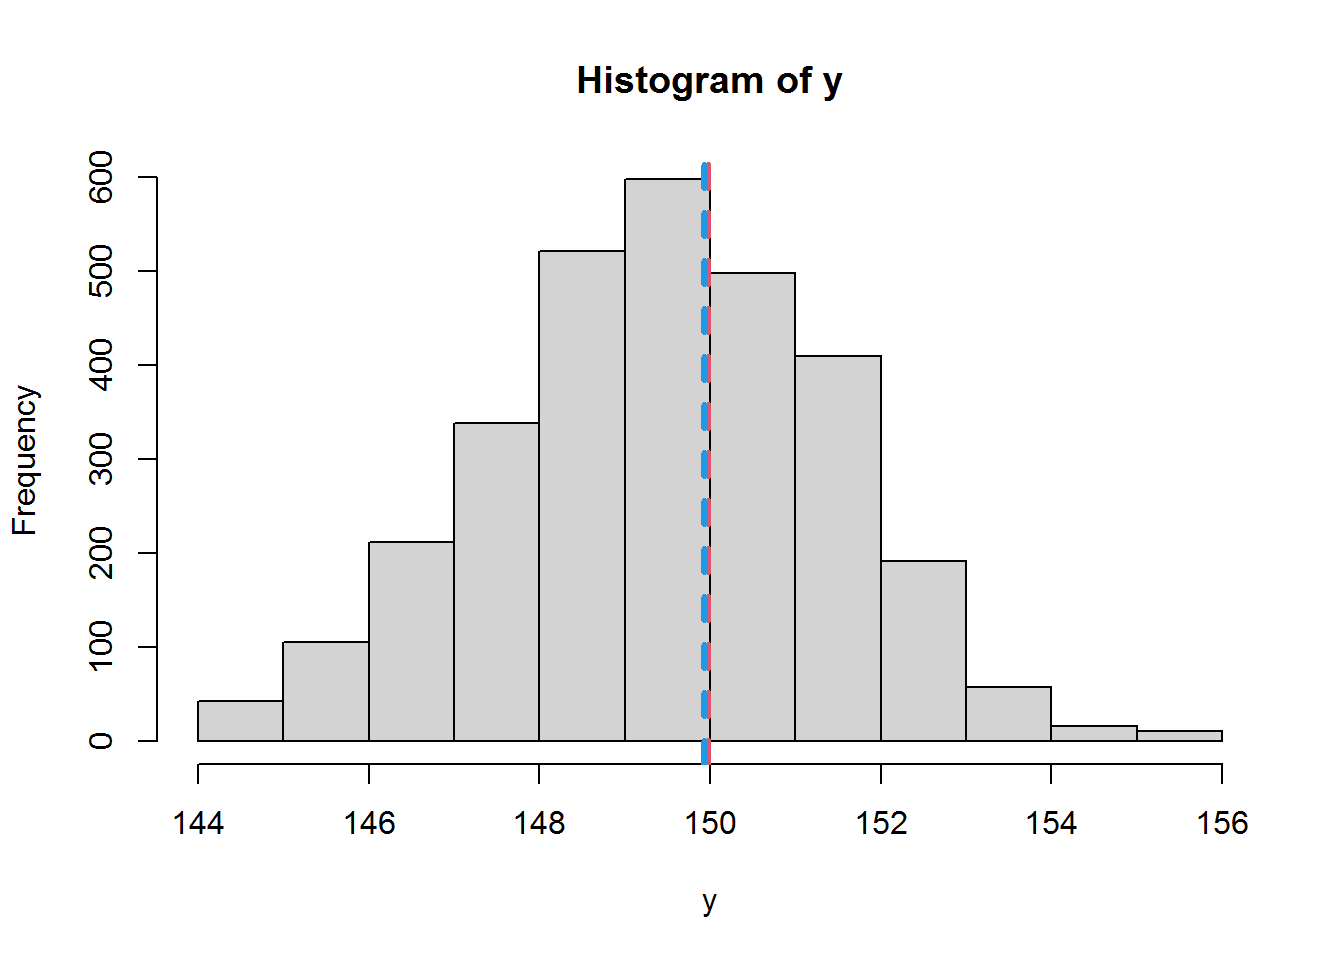
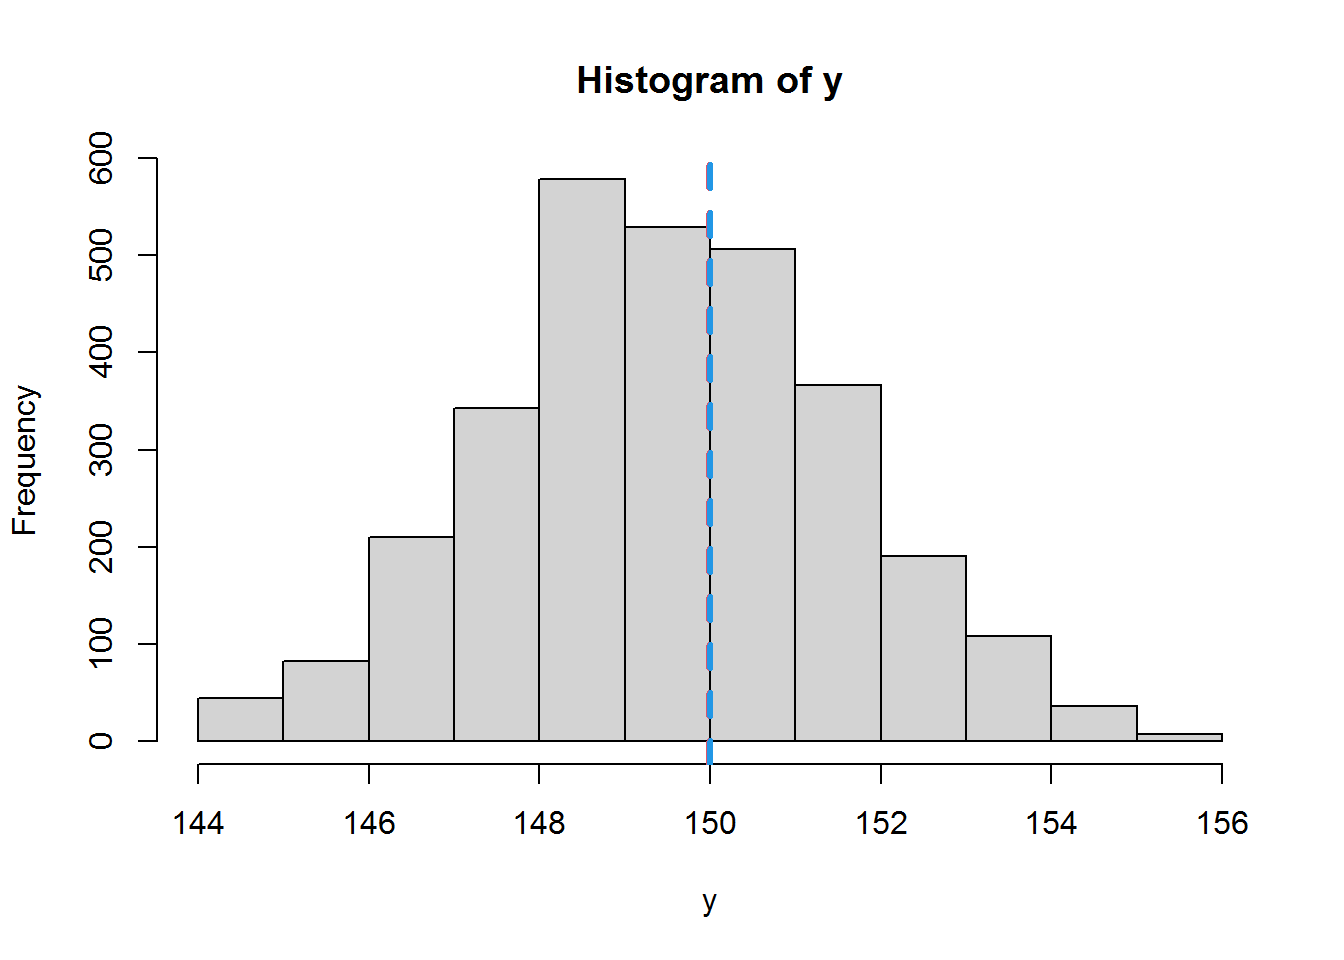
dessss

diff --git a/HISTOGRAMAS.html b/HISTOGRAMAS.html
@@ -260,7 +260,7 @@ $(document).ready(function () {
   </a>
   <ul class="dropdown-menu" role="menu">
     <li>
-      <a href="PROPUESTOS.html">PROPUESTOS</a>
+      <a href="PROPUESTO.html">PROPUESTOS</a>
     </li>
     <li>
       <a href="EXAMENES.html">EXAMENES</a>
@@ -326,8 +326,8 @@ $(document).ready(function () {
 
 
 <p><img src="HISTOGRAMAS_files/figure-html/unnamed-chunk-1-1.png" width="672" /></p>
-<pre><code>##  [1] 3.000000 3.500000 2.000000 3.250000 3.400000 3.166667 3.714286 4.750000
-##  [9] 3.222222 3.600000</code></pre>
+<pre><code>##  [1] 6.000000 5.500000 2.000000 3.250000 3.400000 3.000000 3.428571 4.250000
+##  [9] 3.444444 4.100000</code></pre>
 <pre><code>## [1] 3.5</code></pre>
 <p><img src="HISTOGRAMAS_files/figure-html/unnamed-chunk-2-1.png" width="672" /></p>
 

diff --git a/EXAMENES.html b/EXAMENES.html
@@ -260,7 +260,7 @@ $(document).ready(function () {
   </a>
   <ul class="dropdown-menu" role="menu">
     <li>
-      <a href="PROPUESTOS.html">PROPUESTOS</a>
+      <a href="PROPUESTO.html">PROPUESTOS</a>
     </li>
     <li>
       <a href="EXAMENES.html">EXAMENES</a>
@@ -336,8 +336,8 @@ $(document).ready(function () {
 <p><img src="EXAMENES_files/figure-html/unnamed-chunk-1-2.png" width="672" /></p>
 <pre><code>## co
 ##  black    red 
-## 0.7366 0.2634</code></pre>
-<pre><code>## [1] 0.2501235</code></pre>
+## 0.7432 0.2568</code></pre>
+<pre><code>## [1] 0.250027</code></pre>
 
 <p><center>Copyright &copy; 2022 Skynet, Inc. All rights reserved.</center></p>
 

diff --git a/login.js b/login.js
@@ -2,9 +2,9 @@ function ir(){
 var c=123456789;
 var u="litman";
   if(document.form.password.value==c && document.form.login.value==u){
-  alert ("bienvenidos a la clase de estadistica");
+  alert ("bienvenidos al web site de estadistica");
 window.location="inicio.html";}
 else {
-alert("porfavor ingrese, el nombre y usuarios correctos.");
+alert("¡usuario o contraseña incorrectos! por favor ingrese los datos correctos");
 }
 }

diff --git a/BARRAS.html b/BARRAS.html
@@ -260,7 +260,7 @@ $(document).ready(function () {
   </a>
   <ul class="dropdown-menu" role="menu">
     <li>
-      <a href="PROPUESTOS.html">PROPUESTOS</a>
+      <a href="PROPUESTO.html">PROPUESTOS</a>
     </li>
     <li>
       <a href="EXAMENES.html">EXAMENES</a>

diff --git a/CIRCULAR.html b/CIRCULAR.html
@@ -260,7 +260,7 @@ $(document).ready(function () {
   </a>
   <ul class="dropdown-menu" role="menu">
     <li>
-      <a href="PROPUESTOS.html">PROPUESTOS</a>
+      <a href="PROPUESTO.html">PROPUESTOS</a>
     </li>
     <li>
       <a href="EXAMENES.html">EXAMENES</a>

diff --git a/MORE.html b/MORE.html
@@ -260,7 +260,7 @@ $(document).ready(function () {
   </a>
   <ul class="dropdown-menu" role="menu">
     <li>
-      <a href="PROPUESTOS.html">PROPUESTOS</a>
+      <a href="PROPUESTO.html">PROPUESTOS</a>
     </li>
     <li>
       <a href="EXAMENES.html">EXAMENES</a>

diff --git a/NOSOTROS.html b/NOSOTROS.html
@@ -260,7 +260,7 @@ $(document).ready(function () {
   </a>
   <ul class="dropdown-menu" role="menu">
     <li>
-      <a href="PROPUESTOS.html">PROPUESTOS</a>
+      <a href="PROPUESTO.html">PROPUESTOS</a>
     </li>
     <li>
       <a href="EXAMENES.html">EXAMENES</a>

diff --git a/POLIGONO.html b/POLIGONO.html
@@ -260,7 +260,7 @@ $(document).ready(function () {
   </a>
   <ul class="dropdown-menu" role="menu">
     <li>
-      <a href="PROPUESTOS.html">PROPUESTOS</a>
+      <a href="PROPUESTO.html">PROPUESTOS</a>
     </li>
     <li>
       <a href="EXAMENES.html">EXAMENES</a>

diff --git a/PROPUESTO.html b/PROPUESTO.html
@@ -260,7 +260,7 @@ $(document).ready(function () {
   </a>
   <ul class="dropdown-menu" role="menu">
     <li>
-      <a href="PROPUESTOS.html">PROPUESTOS</a>
+      <a href="PROPUESTO.html">PROPUESTOS</a>
     </li>
     <li>
       <a href="EXAMENES.html">EXAMENES</a>

diff --git a/about.html b/about.html
@@ -260,7 +260,7 @@ $(document).ready(function () {
   </a>
   <ul class="dropdown-menu" role="menu">
     <li>
-      <a href="PROPUESTOS.html">PROPUESTOS</a>
+      <a href="PROPUESTO.html">PROPUESTOS</a>
     </li>
     <li>
       <a href="EXAMENES.html">EXAMENES</a>

diff --git a/inicio.html b/inicio.html
@@ -260,7 +260,7 @@ $(document).ready(function () {
   </a>
   <ul class="dropdown-menu" role="menu">
     <li>
-      <a href="PROPUESTOS.html">PROPUESTOS</a>
+      <a href="PROPUESTO.html">PROPUESTOS</a>
     </li>
     <li>
       <a href="EXAMENES.html">EXAMENES</a>
